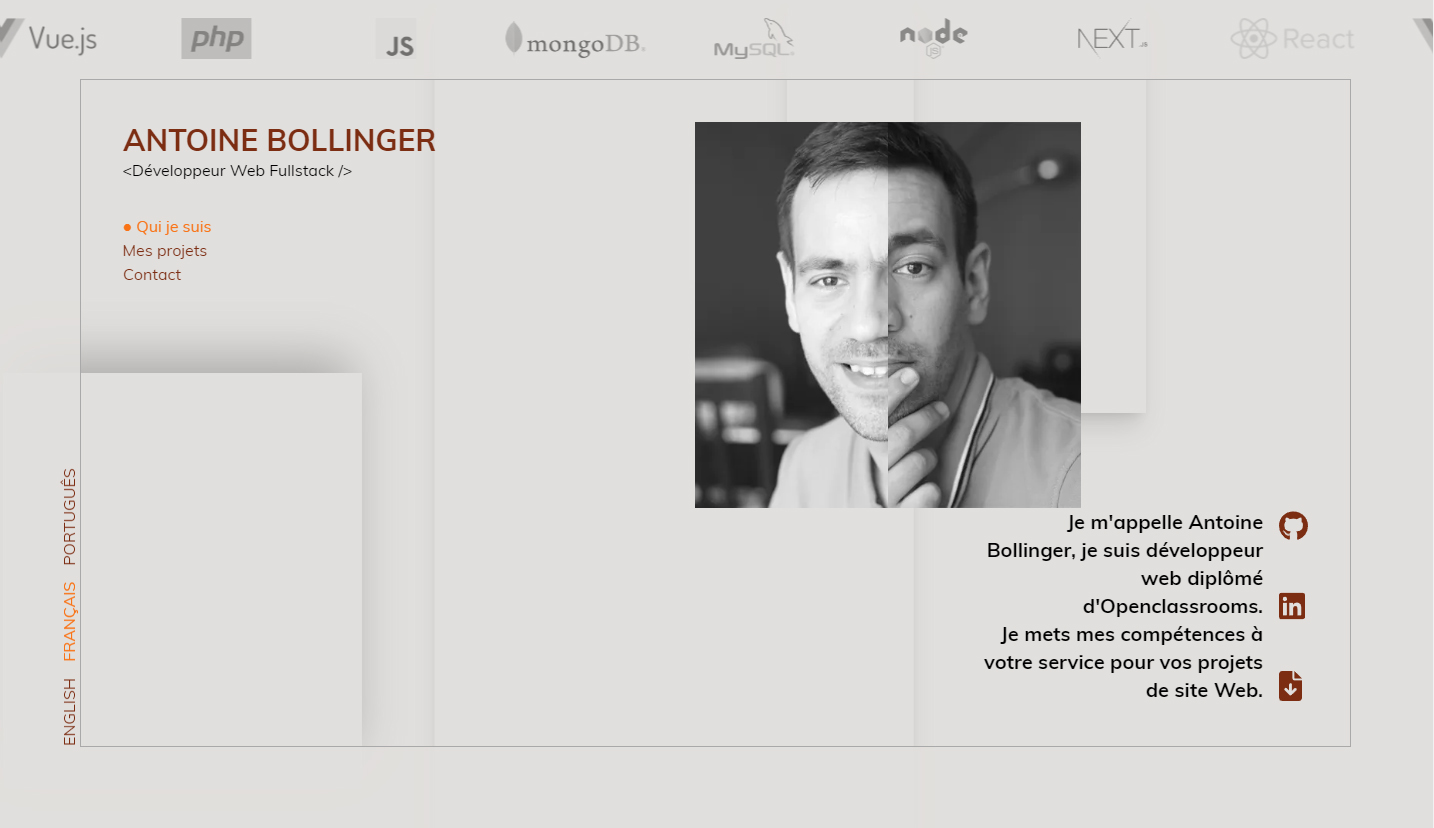
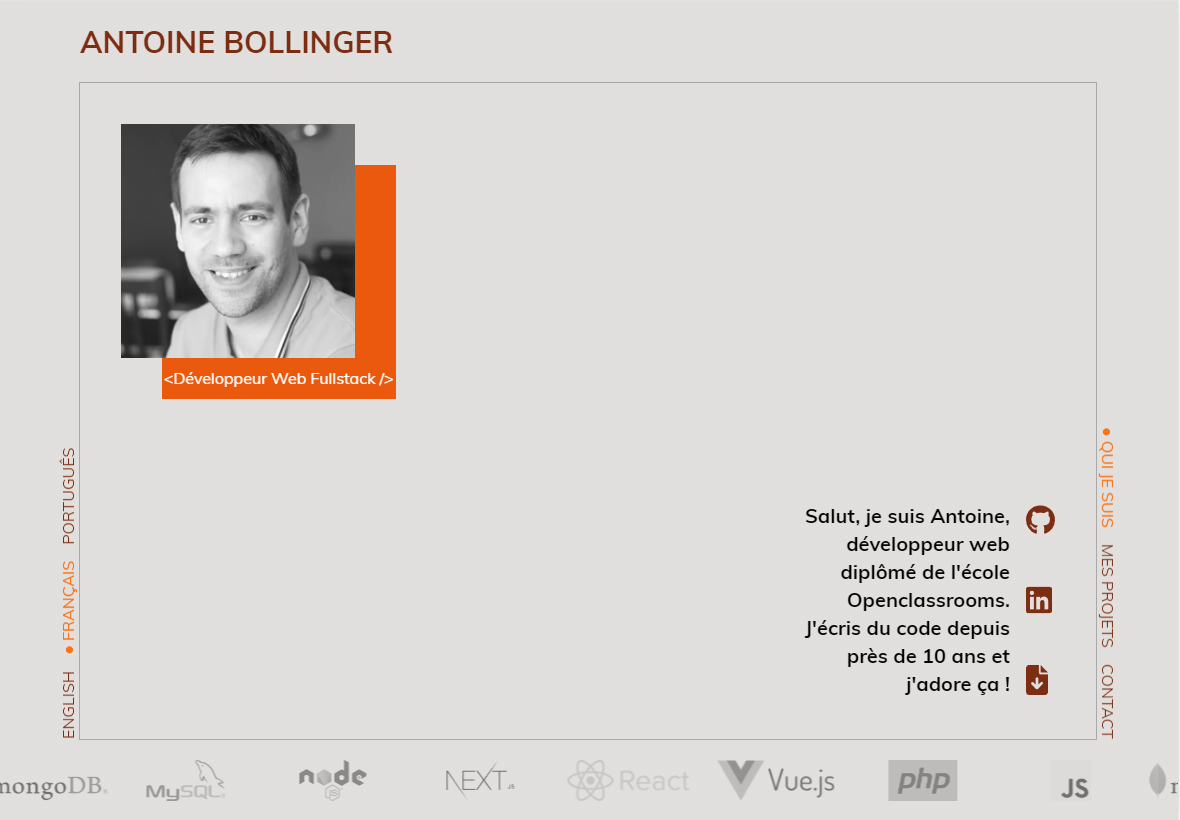
💄 intro

diff --git a/sections/About.js b/sections/About.js
@@ -3,9 +3,7 @@ import { LocalesContext } from "../lib/context";
 import { useRouter } from "next/router";
 
 import Section from "../components/Section";
-import Image from "next/image"
-import me from "../public/me.jpg";
-import metwo from "../public/metwo.jpg";
+import Identity from "../components/Identity";
 
 import { FontAwesomeIcon } from '@fortawesome/react-fontawesome'
 import { faGithub, faLinkedin } from '@fortawesome/free-brands-svg-icons'
@@ -25,29 +23,17 @@ export function meImage(img) {
 }
 
 export default function About() {
-    const [locales, setLocales] = useContext(LocalesContext);
+    const [locales] = useContext(LocalesContext);
     const { locale } = useRouter();
 
     return (
         <Section id="about" className="flex flex-col lg:flex-row justify-end items-stretch">
             <div className="w-full flex items-start justify-start">
-                <div className="w-full lg:w-1/2 relative before:bg-orange-600 before:top-pal" id="identity">
-                    <Image
-                        priority
-                        src={metwo}
-                        height={metwo.height}
-                        width={metwo.width}
-                        layout="responsive"
-                        alt="Me"
-                    />
-                    <div className="absolute left-pal top-full w-full h-pal text-white text-center leading-pal">
-                        {`<${locales[locale].intro} />`}
-                    </div>
-                </div>
+                <Identity className="w-full lg:w-1/2 relative" id="metwo" />
             </div>
             <div className="w-full h-full flex items-end">
                 <div className="w-full flex justify-end items-stretch text-xl gap-4">
-                    <div className="lg:w-1/3 text-end font-bold" dangerouslySetInnerHTML={{ __html: locales[locale].about.contentHtml }} />
+                    <div className="lg:w-1/2 text-end font-bold" dangerouslySetInnerHTML={{ __html: locales[locale].about.contentHtml }} />
                     <div>
                         <div className="h-full flex flex-col justify-between text-3xl">
                             <a href="https://github.com/antoinebollinger" title="GitHub" className="text-orange-900 hover:text-orange-700 transition">

diff --git a/components/Identity.js b/components/Identity.js
@@ -1,0 +1,29 @@
+import Image from "next/image";
+import me from "../public/me.jpg";
+import metwo from "../public/metwo.jpg";
+
+import { useRouter } from "next/router";
+import { useContext } from "react";
+import { LocalesContext } from "../lib/context";
+
+export default function Identity({ className, id = 'me' }) {
+    const [locales] = useContext(LocalesContext);
+    const { locale } = useRouter();
+
+    const img = id === 'me' ? me : metwo;
+    return (
+        <div className={`mr-pal mb-pal before:bg-orange-600 before:top-pal before:left-pal before:absolute before:w-full before:h-full ${className}`}>
+            <Image
+                priority
+                src={img}
+                height={img.height}
+                width={img.width}
+                layout="responsive"
+                alt="Antoine Bollinger"
+            />
+            <div className="absolute left-pal top-full w-full h-pal text-white text-center leading-pal">
+                {`<${locales[locale].intro} />`}
+            </div>
+        </div>
+    )
+}

diff --git a/sections/Contact.js b/sections/Contact.js
@@ -4,20 +4,13 @@ import Form from "../components/Form";
 import Image from "next/image";
 import me from "../public/me.jpg";
 
+import Identity from "../components/Identity";
+
 export default function Contact() {
     return (
         <Section id="contact" className="flex flex-col lg:flex-row justify-center items-center">
             <div className="w-full h-full flex items-end justify-start hidden lg:flex">
-                <div className="w-full lg:w-1/2 relative before:bg-orange-600 before:bottom-pal" id="identity">
-                    <Image
-                        priority
-                        src={me}
-                        height={me.height}
-                        width={me.width}
-                        layout="responsive"
-                        alt="Me"
-                    />
-                </div>
+                <Identity className="w-full lg:w-1/2 relative" />
             </div>
             <div className="w-full h-full flex flex-col justify-center">
                 <Form />

diff --git a/components/Head.js b/components/Head.js
@@ -25,8 +25,8 @@ export default function MainHead({ title = '' }) {
             <meta name="twitter:description" content={siteDescription} />
             <meta property="og:image" content="/preview.jpg" />
             <meta property="og:image:alt" content={siteDescription} />
-            <meta property="og:image:width" content="1434" />
-            <meta property="og:image:height" content="828" />
+            <meta property="og:image:width" content="1180" />
+            <meta property="og:image:height" content="820" />
             <meta property="og:site_name" content={siteTitle} />
             <meta property="og:type" content="object" />
             <meta property="og:title" content={siteTitle} />

diff --git a/components/Lang.js b/components/Lang.js
@@ -14,7 +14,7 @@ export default function Lang({ className }) {
                     {Object.keys(locales).map((ele, index) => (
                         <Link href={pathname} locale={ele} replace key={index}>
                             <a className={`${locale === ele
-                                ? 'text-orange-500 cursor-default pointer-events-none'
+                                ? 'text-orange-500 cursor-default pointer-events-none active'
                                 : 'text-orange-900 hover:text-orange-700'
                                 } transition pr-4 uppercase`}>
                                 {locales[ele].lang}
